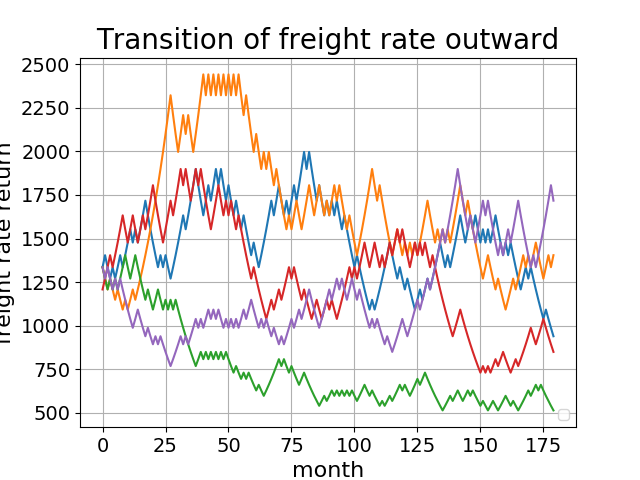
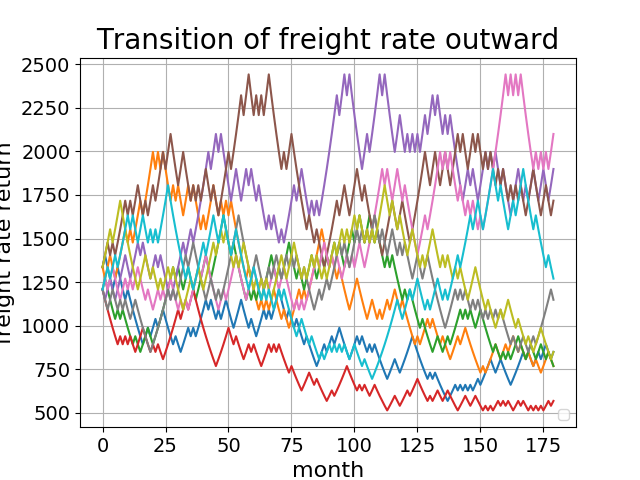
modify check_rule_is_adapted

Changed region(s): [[0.1562, 0.1562, 0.875, 0.875]]

diff --git a/models/ga.py b/models/ga.py
@@ -36,7 +36,10 @@ class GA:
         self.compare_rule = []
         for i in range(self.num_condition_part*2):
             self.compare_rule.append([0,0,0,0])
-        self.compare_rule.append([1,1,0,1]) #19knot
+        if self.decision == DECISION_SPEED:
+            self.compare_rule.append([1,1,0,1]) #19knot
+        elif self.decision == DECISION_SELL:
+            self.compare_rule.append([1])
         self.compare_rule.append(0)
         #self.speed_history = []
         #for i in range(DEFAULT_PREDICT_PATTERN_NUMBER):
@@ -193,7 +196,8 @@ class GA:
                 temp.append([])
                 for a in range(4):
                     temp[condition].append(random.randint(0,1))
-            temp.append([random.randint(0,1)])
+            #temp.append([random.randint(0,1)])
+            temp.append([0])
         else:
             sys.exit()
         temp.append(0)
@@ -239,17 +243,29 @@ class GA:
 
     def compare_rules(self):
         fitness_no_rule = self.fitness_function(self.compare_rule)
-        fitness_best = self.bestgroup[-1]
-        fitness_set_of_rule = self.fitness_function(None)
+        if self.decision == DECISION_SPEED:
+            fitness_best = self.bestgroup[-1]
+        elif self.decision == DECISION_SELL:
+            fitness_best = 0
+            for i in range(self.num):
+                if self.group[i][-2][0] == ACTION_SELL:
+                    if self.check_rule_is_adapted(self.group[i]):
+                        fitness_best = self.group[i][-1]
+                        break
         fitness_full_search = self.fitness_function(FULL_SEARCH)
-        print(fitness_no_rule,fitness_best,fitness_set_of_rule,fitness_full_search)
-        left = [1,2,3,4]
-        height = [fitness_no_rule,fitness_best,fitness_set_of_rule,fitness_full_search]
-        label = ['no rule','best rule','sets of rules','full search']
+        print(fitness_no_rule,fitness_best,fitness_full_search)
+        left = [1,2,3]
+        height = [fitness_no_rule,fitness_best,fitness_full_search]
+        label = ['no rule','best rule','full search']
+        #fitness_set_of_rule = self.fitness_function(None)
+        #print(fitness_no_rule,fitness_best,fitness_set_of_rule,fitness_full_search)
+        #left = [1,2,3,4]
+        #height = [fitness_no_rule,fitness_best,fitness_set_of_rule,fitness_full_search]
+        #label = ['no rule','best rule','sets of rules','full search']
         plt.bar(left,height,tick_label=label,align='center')
         plt.title('Comparison')
         plt.ylabel('fitness')
-        plt.ylim(fitness_no_rule-1,fitness_full_search+1)
+        plt.ylim(fitness_best-1,fitness_full_search+1)
         save_dir = '../image'
         plt.savefig(os.path.join(save_dir, 'comparison.png'))
         plt.close()
@@ -272,8 +288,7 @@ class GA:
                     current_freight_rate_return = self.freight_rate_return_data[pattern][year*12+month]['price']
                     total_freight = 0.5 * ( current_freight_rate_outward * LOAD_FACTOR_ASIA_TO_EUROPE + current_freight_rate_return * LOAD_FACTOR_EUROPE_TO_ASIA)
                     result = self.adapt_rule(current_oil_price,total_freight,rule)
-                    if result[0] and rule[-2] == ACTION_SELL:
-                        print(year*12+month)
+                    if result[0] and rule[-2][0] == ACTION_SELL:
                         return True
         return False
 

diff --git a/public/constants.py b/public/constants.py
@@ -25,7 +25,7 @@ VESSEL_LIFE_TIME         = 15#year
 OPERATION_DURATION_YEARS = VESSEL_LIFE_TIME
 DEFAULT_PREDICT_YEARS    = OPERATION_DURATION_YEARS
 
-GENETIC_ALGORITHM_PARAMETER = {'pattern':5, 'generation':20, 'individual':200}
+GENETIC_ALGORITHM_PARAMETER = {'pattern':10, 'generation':20, 'individual':100}
 DEFAULT_PREDICT_PATTERN_NUMBER = GENETIC_ALGORITHM_PARAMETER['pattern']
 DEFAULT_GENERATION = GENETIC_ALGORITHM_PARAMETER['generation']
 DEFAULT_NUM_OF_INDIVIDUAL = GENETIC_ALGORITHM_PARAMETER['individual']

diff --git a/test/test.py b/test/test.py
@@ -21,7 +21,7 @@ freight_outward.depict()
 freight_return = FreightReturn()
 freight_return.generate_sinario()
 freight_return.depict()
-ga = GA(sinario.predicted_data,freight_outward.predicted_data,freight_return.predicted_data,TEU_SIZE,INITIAL_SPEED,ROUTE_DISTANCE,DECISION_SPEED)
+ga = GA(sinario.predicted_data,freight_outward.predicted_data,freight_return.predicted_data,TEU_SIZE,INITIAL_SPEED,ROUTE_DISTANCE,DECISION_SELL)
 ga.execute_GA()
 ga.depict()
 
